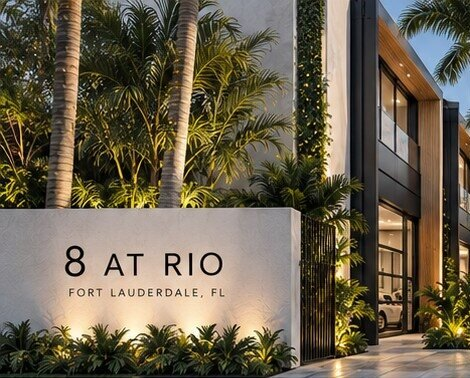
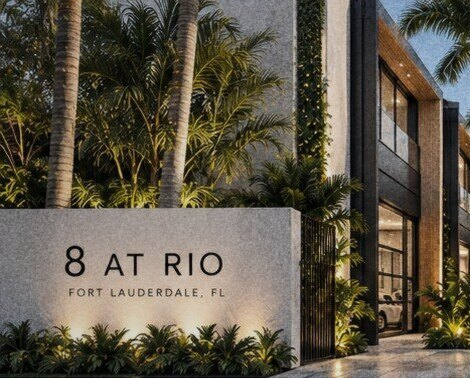
Correct ceiling heights; soften hero rendering; drop RR placeholder
- Ceilings: double-height garage of about 22' over roughly half the
  footprint; mezzanine over the other half (about 14' below, about 8'
  headroom). Updated meta, idea copy, stats, residences, features,
  interior disclaimer and FAQ.
- Hero rendering re-graded to read less AI-generated (lower saturation,
  gentler contrast, slight softening, fine grain, light vignette); gate
  crop and social image regenerated from it.
- Removed the typed 'RR' stand-in from the footer; the developer name
  stays as text.

Claude-Session: https://claude.ai/code/session_01UkxUCALfAJKAmKw6Tm13MG

diff --git a/autocondo/site/index.html b/autocondo/site/index.html
@@ -4,7 +4,7 @@
 <meta charset="utf-8">
 <meta name="viewport" content="width=device-width, initial-scale=1">
 <title>8 AT RIO — Eight Private Garage Residences · Rio Vista, Fort Lauderdale</title>
-<meta name="description" content="8 AT RIO is a gated collection of eight private garage residences on SE 12th Street in Rio Vista, Fort Lauderdale — with a garage and living level of about 14 feet, a mezzanine above, an open motor court and a shared pool.">
+<meta name="description" content="8 AT RIO is a gated collection of eight private garage residences on SE 12th Street in Rio Vista, Fort Lauderdale — each with a double-height garage of about 22 feet over half its footprint, a mezzanine over the other half, an open motor court and a shared pool.">
 <meta name="theme-color" content="#0C0C0B">
 <meta property="og:title" content="8 AT RIO — Eight Private Garage Residences">
 <meta property="og:description" content="Eight private garage residences in Rio Vista, Fort Lauderdale. Built for what drives you.">
@@ -431,14 +431,14 @@
   <div class="wrap idea-grid">
     <div class="reveal">
       <p class="eyebrow">The Idea</p>
-      <p class="idea-text">Eight private residences where the car comes <em>inside</em>, under a fourteen-foot ceiling, with a lounge above.</p>
+      <p class="idea-text">Eight private residences where the car comes <em>inside</em>, under a double-height ceiling, with a lounge above.</p>
     </div>
     <div class="reveal">
-      <p class="muted" style="margin:0 0 32px">8 AT RIO is a small gated enclave on SE 12th Street in Rio Vista, one of Fort Lauderdale's most established neighborhoods. Two rows of four residences face an open motor court that runs from the gate to a shared pool and cabana. Each one has a garage and living level with a ceiling of about 14 feet, and a mezzanine above it. The plan allows two parking spaces per residence.</p>
+      <p class="muted" style="margin:0 0 32px">8 AT RIO is a small gated enclave on SE 12th Street in Rio Vista, one of Fort Lauderdale's most established neighborhoods. Two rows of four residences face an open motor court that runs from the gate to a shared pool and cabana. In each one, half the footprint is a double-height garage of about 22 feet, and the other half has a mezzanine lounge over a space about 14 feet high. The plan allows two parking spaces per residence.</p>
       <div class="stats">
         <div class="stat"><b>8</b><span>Private residences</span></div>
         <div class="stat"><b>880<sup>–960 SF</sup></b><span>Per residence</span></div>
-        <div class="stat"><b>14′</b><span>Garage / living ceiling</span></div>
+        <div class="stat"><b>22′</b><span>Double-height garage</span></div>
         <div class="stat"><b>2</b><span>Parking spaces per residence</span></div>
       </div>
     </div>
@@ -453,16 +453,16 @@
         <p class="eyebrow">The Residences</p>
         <h2 class="display">Garage below.<br><strong>Lounge above.</strong></h2>
       </div>
-      <p class="lede">Every residence is a single story plus a mezzanine, 40 feet deep and 22 or 24 feet wide. The car sits on a garage and living level with a ceiling of about 14 feet, and a mezzanine with a ceiling of about 8 feet looks down over it. Use it as a showroom, a studio, an office or a place to land.</p>
+      <p class="lede">Every residence is a single story plus a mezzanine, 40 feet deep and 22 or 24 feet wide. Half of each footprint is a double-height garage, about 22 feet clear. The other half has a mezzanine over a space about 14 feet high, with about 8 feet of headroom upstairs and a view down onto the cars. Use it as a showroom, a studio, an office or a place to land.</p>
     </div>
 
     <div class="res-grid">
       <div class="section-card reveal">
         <img src="assets/typical-section.jpg" alt="Typical section of a residence: a car on the ground-level garage and living floor, with a stair up to a furnished mezzanine lounge" width="196" height="188" loading="lazy">
         <ul class="dims">
-          <li><b>22′</b><span>Building height (35′ max)</span></li>
-          <li><b>± 8′-0″</b><span>Mezzanine ceiling</span></li>
-          <li><b>± 14′-0″</b><span>Garage / living ceiling</span></li>
+          <li><b>± 22′</b><span>Double-height garage · about half the footprint</span></li>
+          <li><b>± 14′</b><span>Under the mezzanine</span></li>
+          <li><b>± 8′</b><span>Mezzanine headroom</span></li>
         </ul>
         <p class="fine">Typical section · Dimensions approximate and subject to final architecture</p>
       </div>
@@ -528,15 +528,15 @@
     <div class="features reveal" aria-label="Every residence (conceptual)">
       <div class="feature">
         <svg class="ico" viewBox="0 0 24 24" fill="none" stroke="currentColor" stroke-width="1.4"><path d="M3 21V8l9-5 9 5v13"/><path d="M6 21v-9h12v9M6 15h12M6 18h12"/></svg>
-        <h3>Drive-in garage</h3><p>The car lives on the main floor under a ceiling of about 14 feet, not in a lot down the street.</p>
+        <h3>Double-height garage</h3><p>Over half the footprint, the garage rises about 22 feet, the full height of the building.</p>
       </div>
       <div class="feature">
         <svg class="ico" viewBox="0 0 24 24" fill="none" stroke="currentColor" stroke-width="1.4"><path d="M3 12h18M3 12v9M21 12v9M7 12V8h10v4"/><path d="M14 21v-5h7"/></svg>
-        <h3>Mezzanine level</h3><p>A second level with a ceiling of about 8 feet that overlooks the floor below. Use it as a lounge, office or guest space.</p>
+        <h3>Mezzanine level</h3><p>The other half has a mezzanine with about 8 feet of headroom, set over a space about 14 feet high, and it overlooks the cars. Use it as a lounge, office or guest space.</p>
       </div>
       <div class="feature">
         <svg class="ico" viewBox="0 0 24 24" fill="none" stroke="currentColor" stroke-width="1.4"><path d="M3 9h18M5 9v12M19 9v12M8 9v3M12 9v3M16 9v3"/></svg>
-        <h3>Lift height</h3><p>A ceiling of about 14 feet leaves room to consider a car lift. Whether one fits depends on the final design and the cars.</p>
+        <h3>Lift height</h3><p>The double-height side leaves room to consider stacking car lifts. Whether they fit depends on the final design and the cars.</p>
       </div>
       <div class="feature">
         <svg class="ico" viewBox="0 0 24 24" fill="none" stroke="currentColor" stroke-width="1.4"><rect x="3" y="6" width="8" height="12" rx="2"/><rect x="13" y="6" width="8" height="12" rx="2"/></svg>
@@ -580,7 +580,7 @@
       <figure class="shot"><img src="assets/interior-bar.jpg" alt="Conceptual rendering of a bar and kitchen with a white marble waterfall island, leather stools, dark cabinetry, a wood backsplash and a wine refrigerator" width="760" height="380" loading="lazy"><figcaption><b>The Bar</b><span>A marble island, a wine column and warm under-cabinet light</span></figcaption></figure>
       <figure class="shot"><img src="assets/interior-bath.jpg" alt="Conceptual rendering of a bathroom with stone-look tile, a floating vanity, a backlit mirror, a wall-hung toilet and a frameless glass shower" width="760" height="380" loading="lazy"><figcaption><b>The Bath</b><span>Stone tile, a backlit mirror and a walk-in glass shower</span></figcaption></figure>
     </div>
-    <p class="note">Conceptual renderings showing design direction only. They are not to scale and do not show a specific residence. Each residence is about 22′–24′ wide by 40′ deep, with a garage ceiling of about 14′. The vehicles, lifts, stair type, finishes, furnishings, fixtures and appliances shown are illustrative only. They are not included, and some may not fit or be offered.</p>
+    <p class="note">Conceptual renderings showing design direction only. They are not to scale and do not show a specific residence. Each residence is about 22′–24′ wide by 40′ deep, with a double-height garage of about 22′ over roughly half the footprint and a mezzanine over the rest. The vehicles, lifts, stair type, finishes, furnishings, fixtures and appliances shown are illustrative only. They are not included, and some may not fit or be offered.</p>
   </div>
 </section>
 
@@ -784,7 +784,7 @@
       <h2 class="display" style="margin-top:22px">Good to<br><strong>know.</strong></h2>
     </div>
     <div class="reveal">
-      <details open><summary>What exactly is a garage residence?</summary><p>It's a private residence designed around the car. The main level is a garage and living space with a ceiling of about 14 feet, and a mezzanine above serves as a lounge, office or retreat. The conceptual site plan proposes eight multifamily residential units under the site's RML-25 zoning.</p></details>
+      <details open><summary>What exactly is a garage residence?</summary><p>It's a private residence designed around the car. About half the footprint is a double-height garage of about 22 feet. The other half has a mezzanine lounge, office or retreat over a space about 14 feet high. The conceptual site plan proposes eight multifamily residential units under the site's RML-25 zoning.</p></details>
       <details><summary>Will I own my residence?</summary><p>The intent is to offer the residences individually as condominium units. The ownership structure, budget and association documents will be set out in the offering documents required by Florida law, and those documents, not this website, will govern.</p></details>
       <details><summary>Where is it, and what's there now?</summary><p>The site is on SE 12th Street in Rio Vista, just south of downtown Fort Lauderdale. The lot is 16,875 SF.</p></details>
       <details><summary>Where is the project in the approval process?</summary><p>The plans and renderings shown are conceptual and have not been approved by the City of Fort Lauderdale. Dimensions, materials, amenities and the number and size of residences may change as the design moves through review.</p></details>
@@ -847,7 +847,6 @@
     <div class="foot-top">
       <p class="foot-mark"><b>8</b> At Rio</p>
       <div class="foot-dev">
-        <div class="rr" aria-hidden="true">RR</div>
         <p>Richard N. Rosa, P.A.</p>
         <p>Development · Investment · Real Estate</p>
         <p class="tag">Built for what drives you</p>
